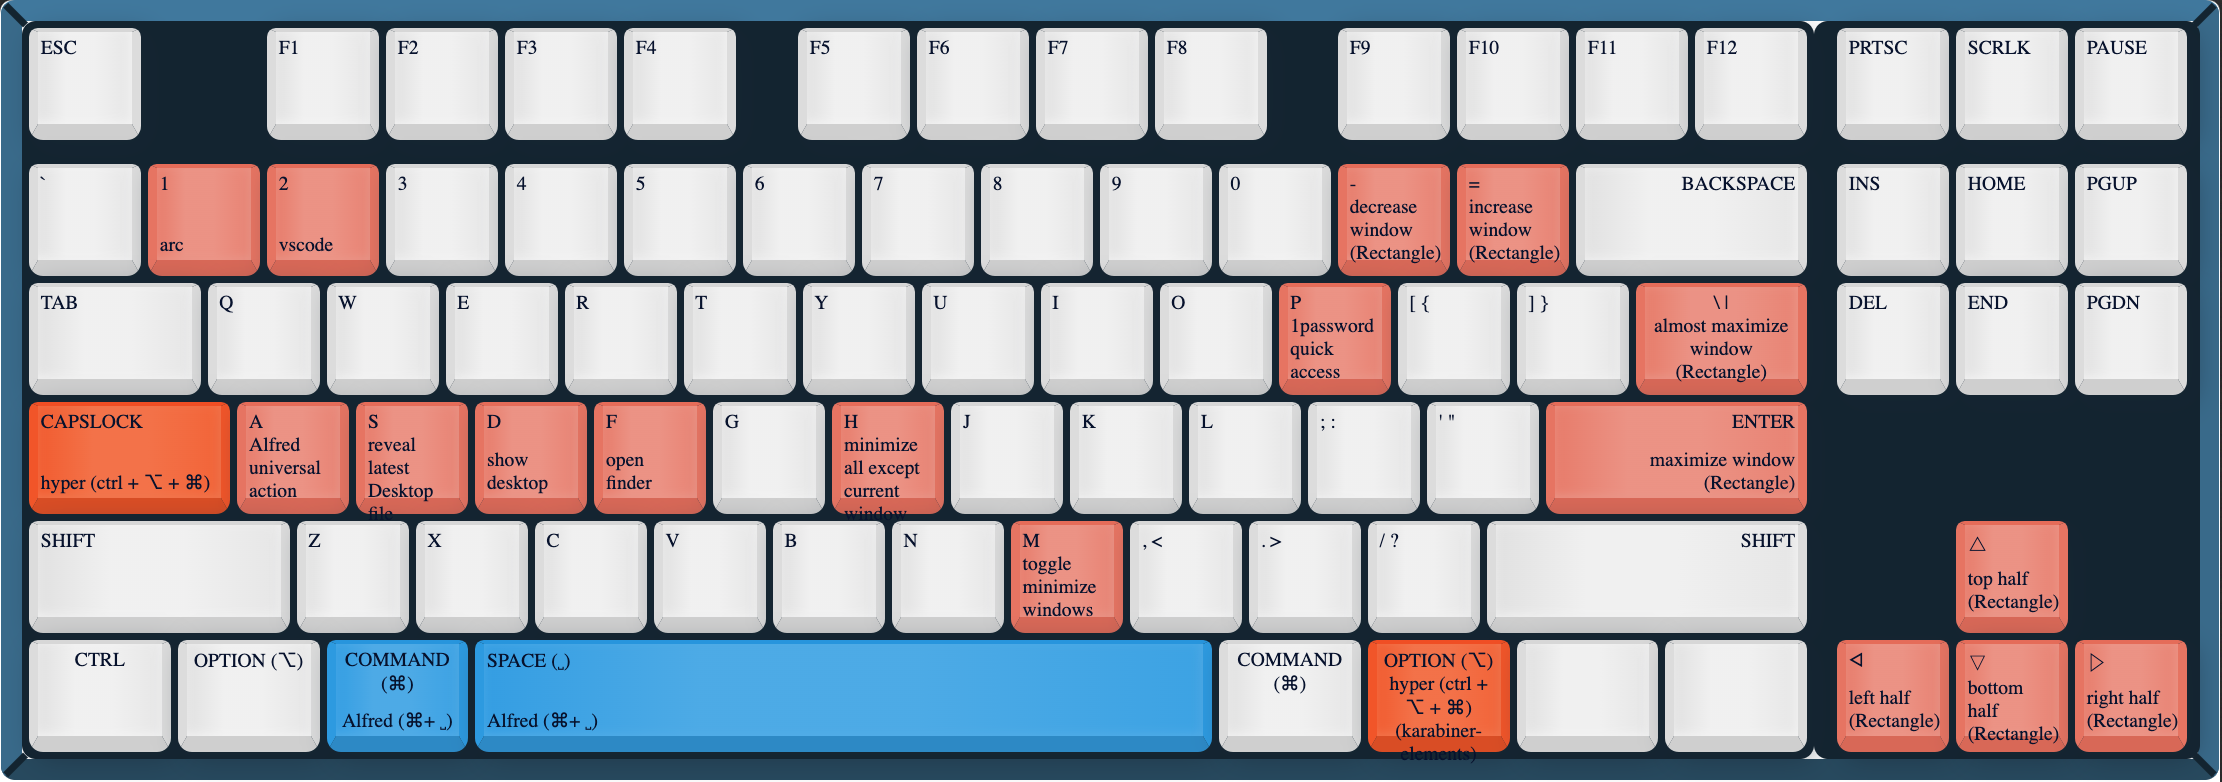
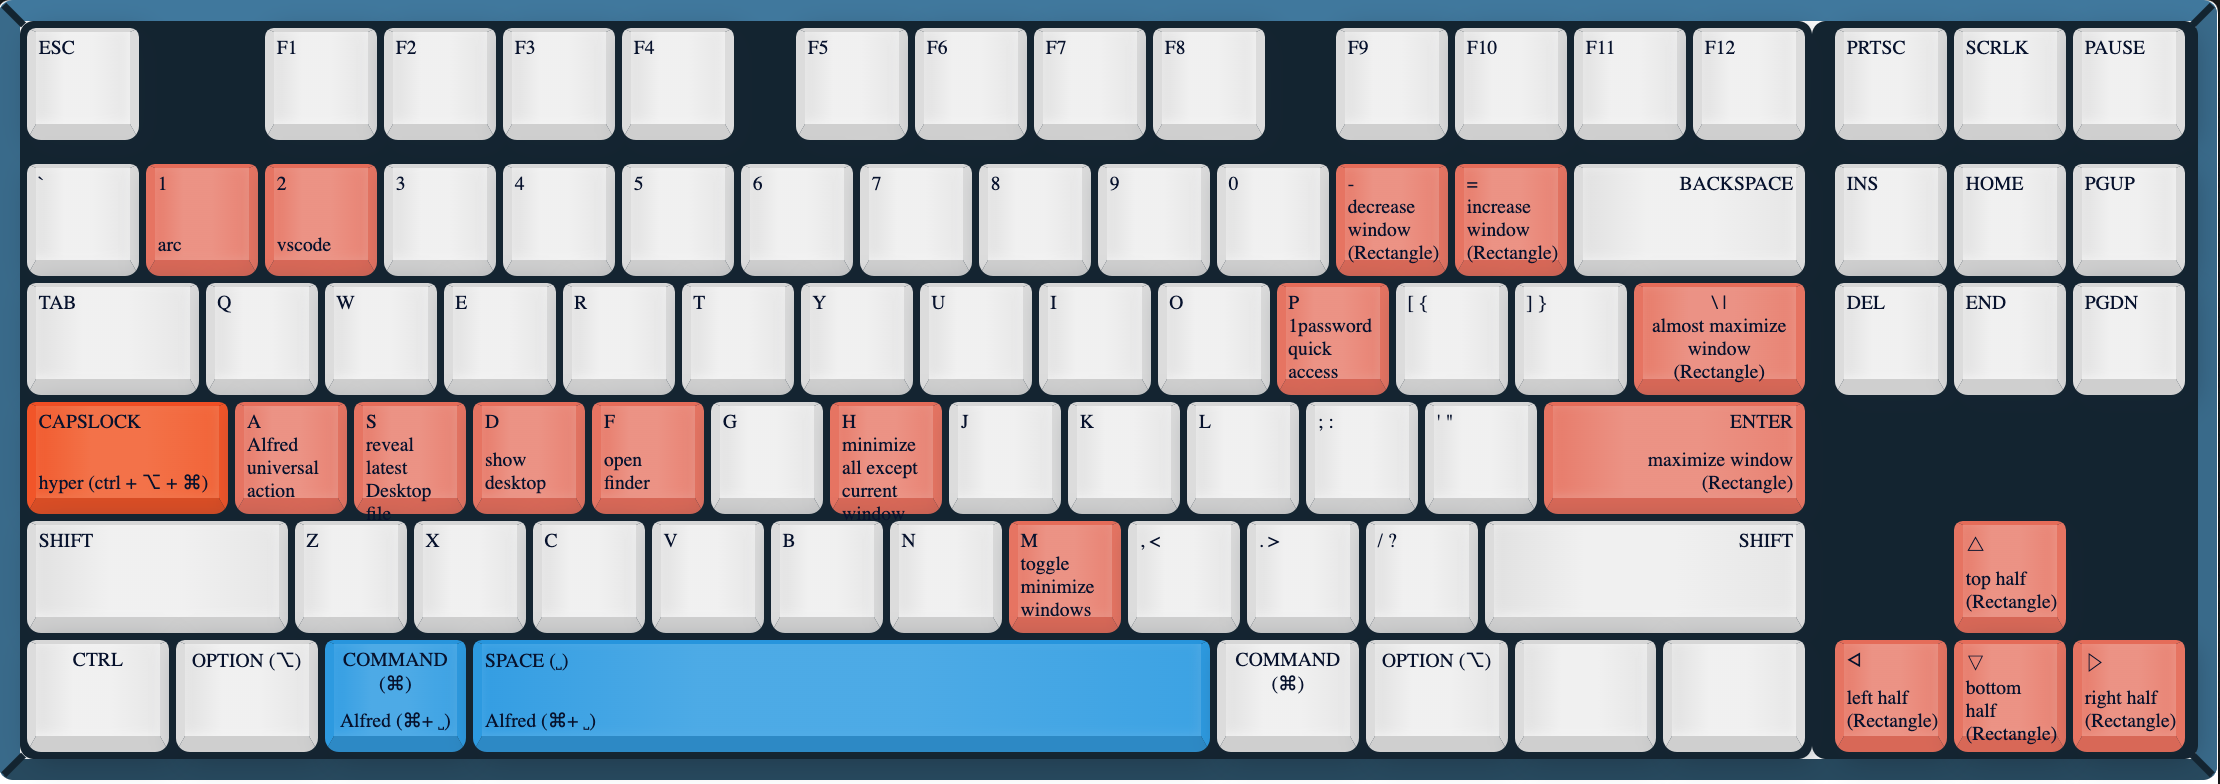
remove karabiner

diff --git a/.config/keyboard.html b/.config/keyboard.html
@@ -1039,12 +1039,9 @@
                                 </div>
                                 <div
                                     data-key="Function"
-                                    class="key text-center key--2 key--colour--orange"
+                                    class="key text-center key--2"
                                 >
-                                    OPTION (⌥)<span class="userText"
-                                        >hyper (ctrl + ⌥ + ⌘)
-                                        (karabiner-elements)</span
-                                    >
+                                    OPTION (⌥)<span class="userText"></span>
                                 </div>
                                 <div
                                     data-key="ContextMenu"
